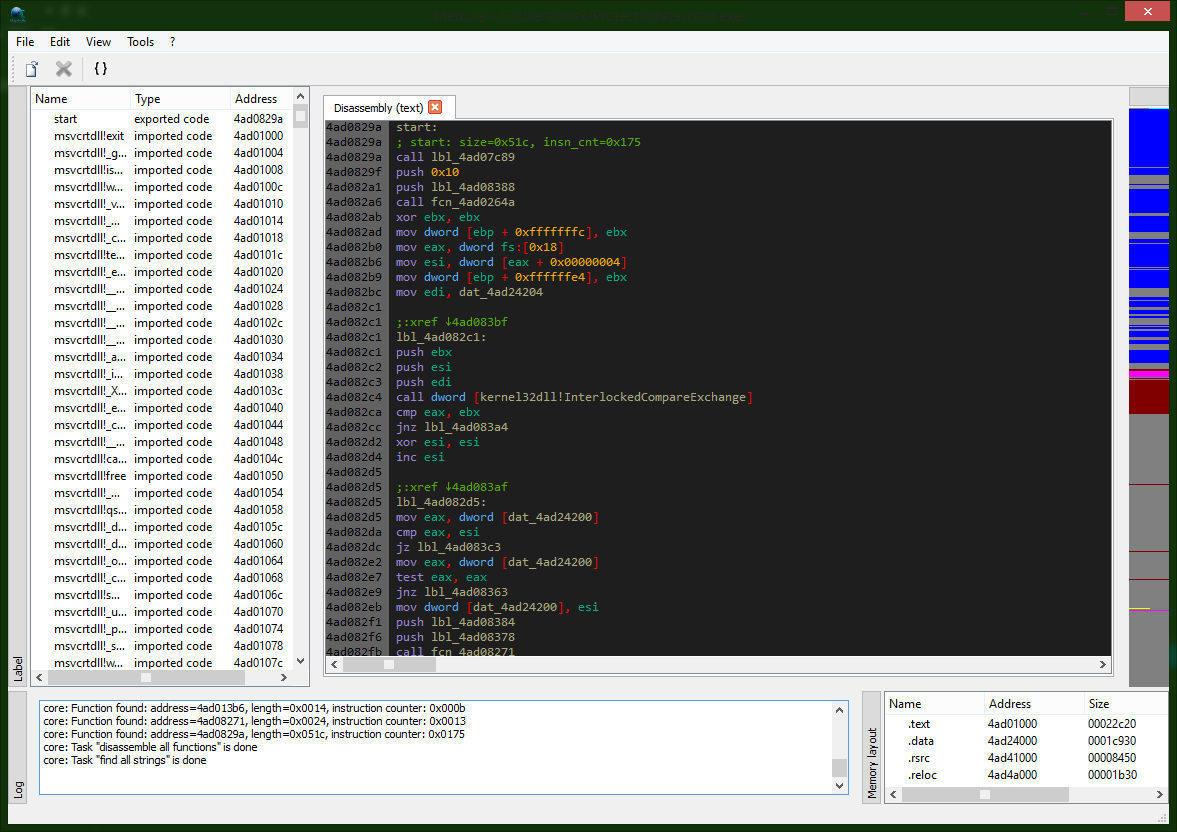
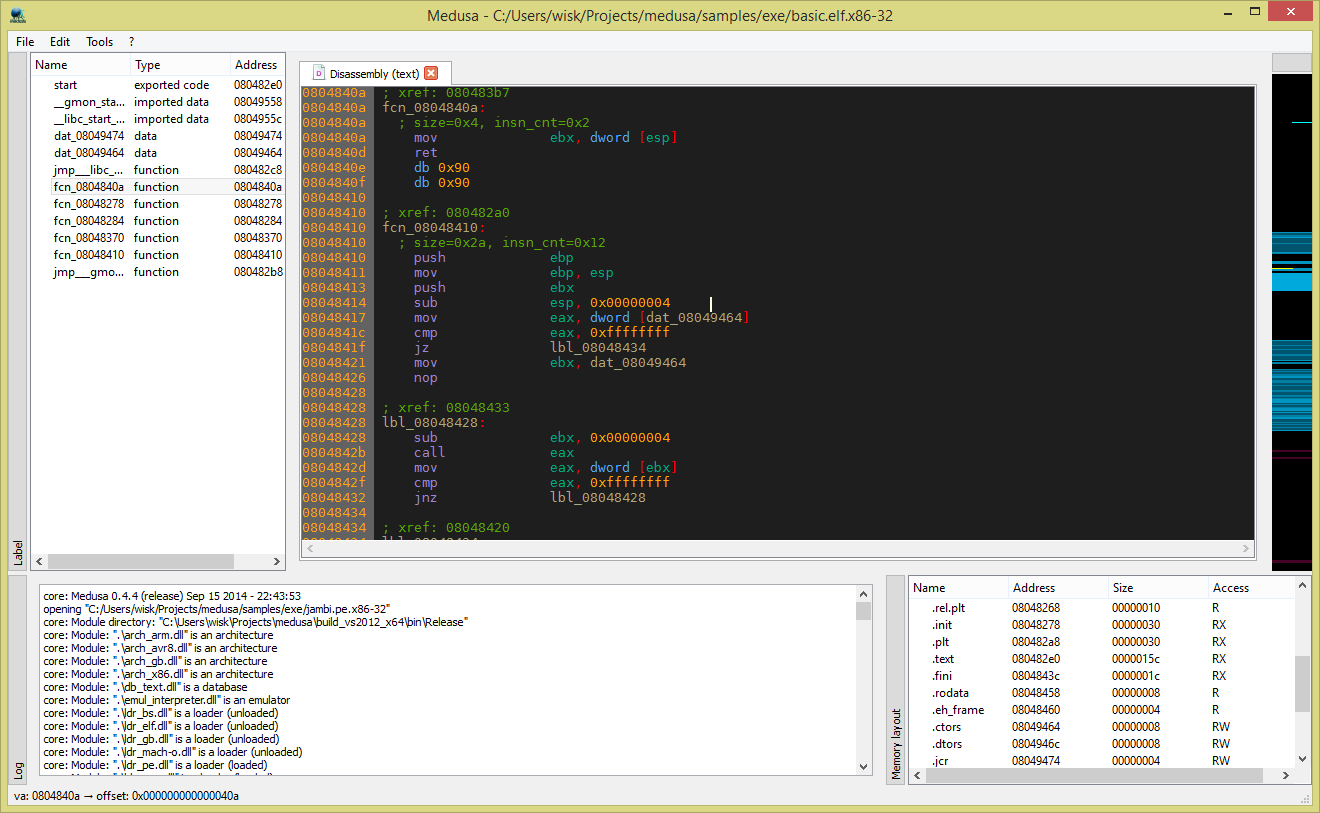
readme: add travis status (for dev branch only), update screenshots

diff --git a/README.rst b/README.rst
@@ -7,6 +7,15 @@ This project is organized as a library. To disassemble a file you have to use
 medusa_dummy or qMedusa.
 wxMedusa and pydusa are not available anymore.
 
+Build-bot
+=========
+
++--------+-------------------------------------------------------------+
+| branch | status                                                      |
++========+=============================================================+
+| dev    | .. image:: https://travis-ci.org/wisk/medusa.svg?branch=dev |
++--------+-------------------------------------------------------------+
+
 Prerequisites
 =============
 
@@ -23,7 +32,7 @@ Feature
 +=========+=========+========+========+=========+===========================================+
 | ELF     | yes     | yes    | no     | no      | Some kind of reloc are not handled        |
 +---------+---------+--------+--------+---------+-------------------------------------------+
-| PE      | yes     | yes    | yes    | no      |                                           |
+| PE      | yes     | yes    | yes    | no      | Reloc are not handled                     |
 +---------+---------+--------+--------+---------+-------------------------------------------+
 | Mach-O  | yes     | yes    | no     | no      | - Doesn't support FAT binary              |
 |         |         |        |        |         | - on X86, esi as glbptr is not handled    |
@@ -37,11 +46,11 @@ Feature
 +------+---------+-------------+----------+----------------------+
 | Name | Mode    | Disassembly | Semantic | Notes                |
 +======+=========+=============+==========+======================+
-| x86  | 16-bit  | yes         | yes      |                      |
-+------+---------+-------------+----------+----------------------+
-| x86  | 32-bit  | yes         | partial  | Support until SEE4.2 |
-+------+---------+-------------+----------+----------------------+
-| x86  | 64-bit  | yes         | partial  |                      |
+| x86  | 16-bit  | yes         | partial  |                      |
++------+---------+-------------+          |                      |
+| x86  | 32-bit  | yes         |          | Support until SEE4.2 |
++------+---------+-------------+          |                      |
+| x86  | 64-bit  | yes         |          |                      |
 +------+---------+-------------+----------+----------------------+
 | z80  | gameboy | yes         | yes      |                      |
 +------+---------+-------------+----------+----------------------+
@@ -59,11 +68,11 @@ Feature
 +--------+---------------+---------+-------+---------+----------+----------+
 | Name   | interactivity | Comment | Label | Graph   | Database | Notes    |
 +========+===============+=========+=======+=========+==========+==========+
-| qt     | partial       | yes     | yes   | yes     | partial  |          |
+| qt     | partial       | yes     | yes   | yes     | yes      |          |
 +--------+---------------+---------+-------+---------+----------+----------+
-| dummy  | no            | no      | no    | no      | no       | outdated |
+| text   | no            | no      | no    | no      | yes      |          |
 +--------+---------------+---------+-------+---------+----------+----------+
-| python | no            | no      | no    | no      | no       | broken   |
+| python | no            | no      | no    | no      | no       | limited  |
 +--------+---------------+---------+-------+---------+----------+----------+
 
 +-----------------------+
@@ -134,17 +143,19 @@ Screenshots
 Main interface
 --------------
 
-.. image:: https://raw.github.com/wisk/medusa/master/img/shots/main_interface.png
+.. image:: https://raw.github.com/wisk/medusa/dev/img/shots/main_interface.png
 
 Control flow graph
 ------------------
 
-.. image:: https://raw.github.com/wisk/medusa/master/img/shots/cfg.png
+.. image:: https://raw.github.com/wisk/medusa/dev/img/shots/cfg.png
 
 Interactivity
 -------------
 
-.. image:: https://raw.github.com/wisk/medusa/master/img/shots/interactivity.png
+.. image:: https://raw.github.com/wisk/medusa/dev/img/shots/interactivity.png
+
+.. image:: https://raw.github.com/wisk/medusa/dev/img/shots/label.png
 
 
 Contacts
@@ -156,6 +167,6 @@ Contacts
 Acknowledgements
 ================
 
-My schoolmates: epieddy, François and FX.
-Yusuke Kamiyamane for his `icons <http://p.yusukekamiyamane.com>`_
-gunmetal313 for his contribution.
+* My schoolmates: epieddy, François and FX.
+* Yusuke Kamiyamane for his `icons <http://p.yusukekamiyamane.com>`_
+* gunmetal313 for his contribution.
